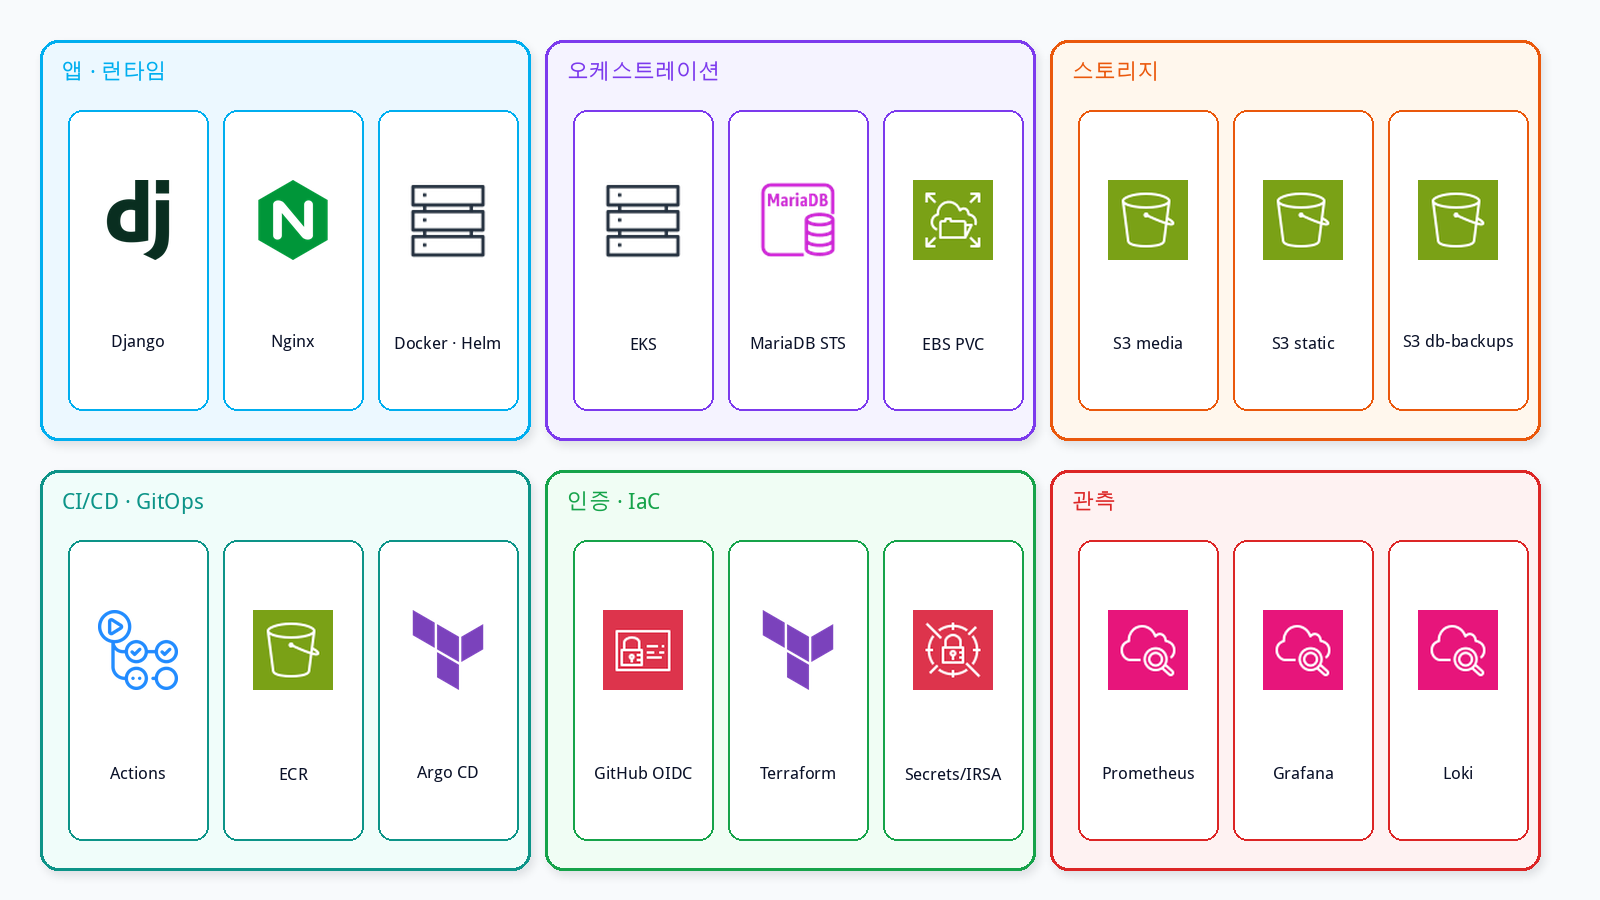
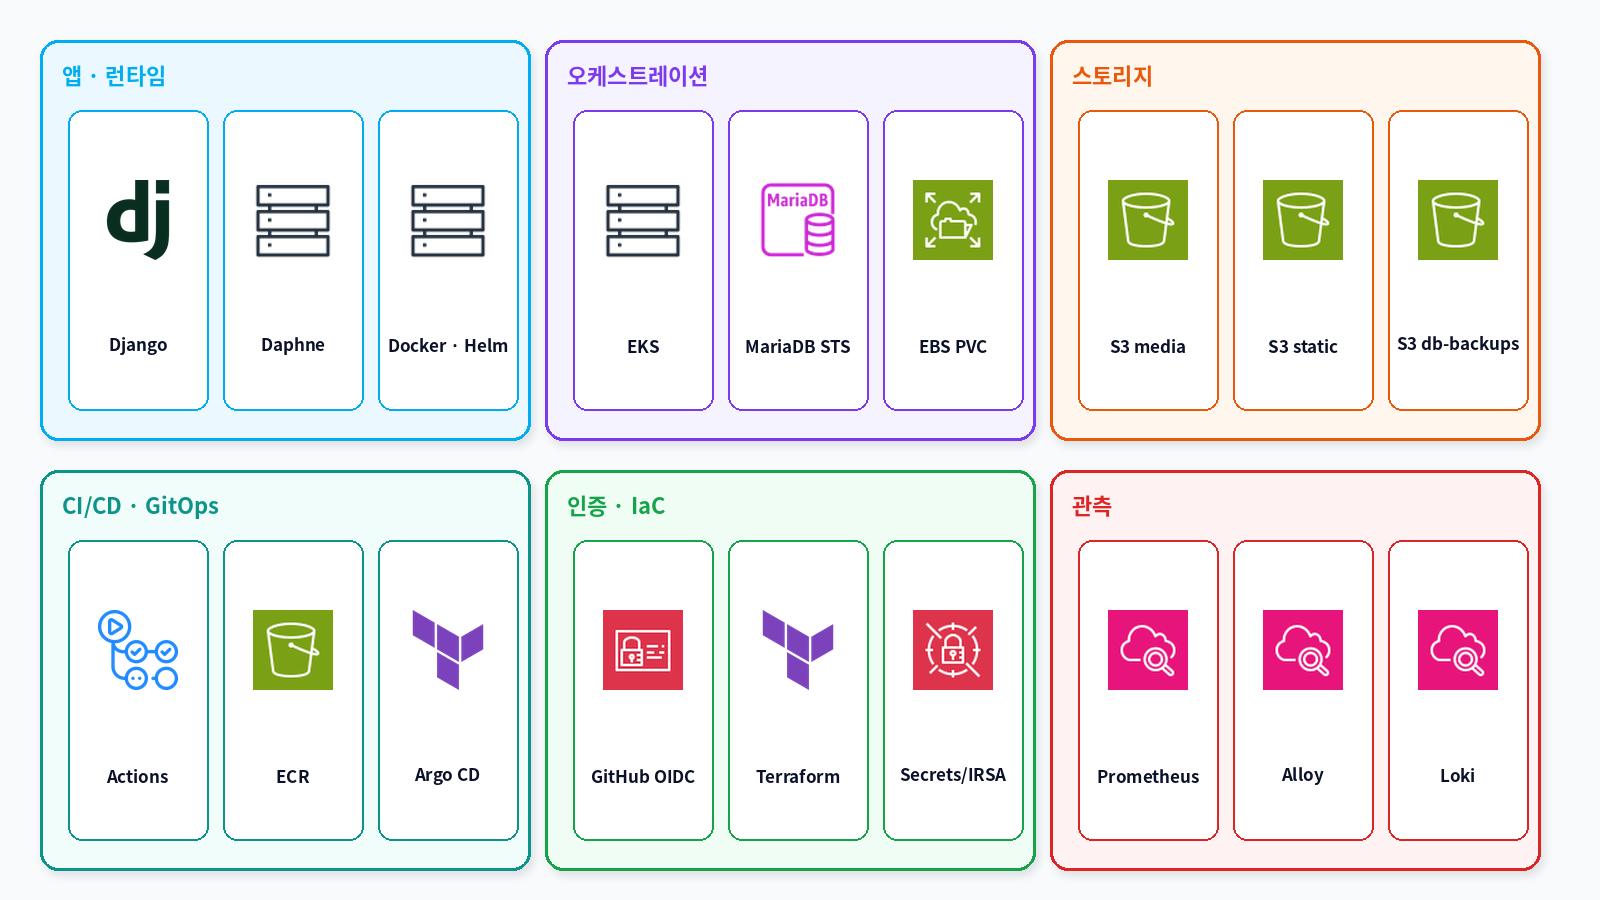
docs(presentation): drop unused V2 stack items
Nginx는 Daphne로, Grafana는 실제 수집기인 Alloy로 기술 스택을 맞춘다.

diff --git a/docs/presentation/make_hybrid_diagrams.py b/docs/presentation/make_hybrid_diagrams.py
@@ -441,7 +441,7 @@ def make_tech_stack_v2():
             "앱 · 런타임",
             CYAN,
             SOFT_BLUE,
-            [("django", "Django"), ("nginx", "Nginx"), ("servers", "Docker · Helm")],
+            [("django", "Django"), ("servers", "Daphne"), ("servers", "Docker · Helm")],
         ),
         (
             545,
@@ -487,7 +487,7 @@ def make_tech_stack_v2():
             SOFT_RED,
             [
                 ("cloudwatch", "Prometheus"),
-                ("cloudwatch", "Grafana"),
+                ("cloudwatch", "Alloy"),
                 ("cloudwatch", "Loki"),
             ],
         ),

diff --git a/docs/presentation/CONTENT_V1V2_working.md b/docs/presentation/CONTENT_V1V2_working.md
@@ -92,12 +92,12 @@
 
 ### 10. 기술 스택 (이미지)
 6칸 아이콘 맵:
-- 앱·런타임: Django · Nginx · Docker/Helm
+- 앱·런타임: Django · Daphne · Docker/Helm
 - 오케스트레이션: EKS · MariaDB STS · EBS PVC
 - 스토리지: S3 media / static / db-backups
 - CI/CD·GitOps: Actions · ECR · Argo CD
 - 인증·IaC: GitHub OIDC · Terraform · Secrets/IRSA
-- 관측: Prometheus · Grafana · Loki
+- 관측: Prometheus · Alloy · Loki
 
 ### 11. 데이터 흐름 (이미지)
 1. 서비스: Users → ALB → web Pod → MariaDB → EBS PVC (eks-stop 시 PVC 유지)
